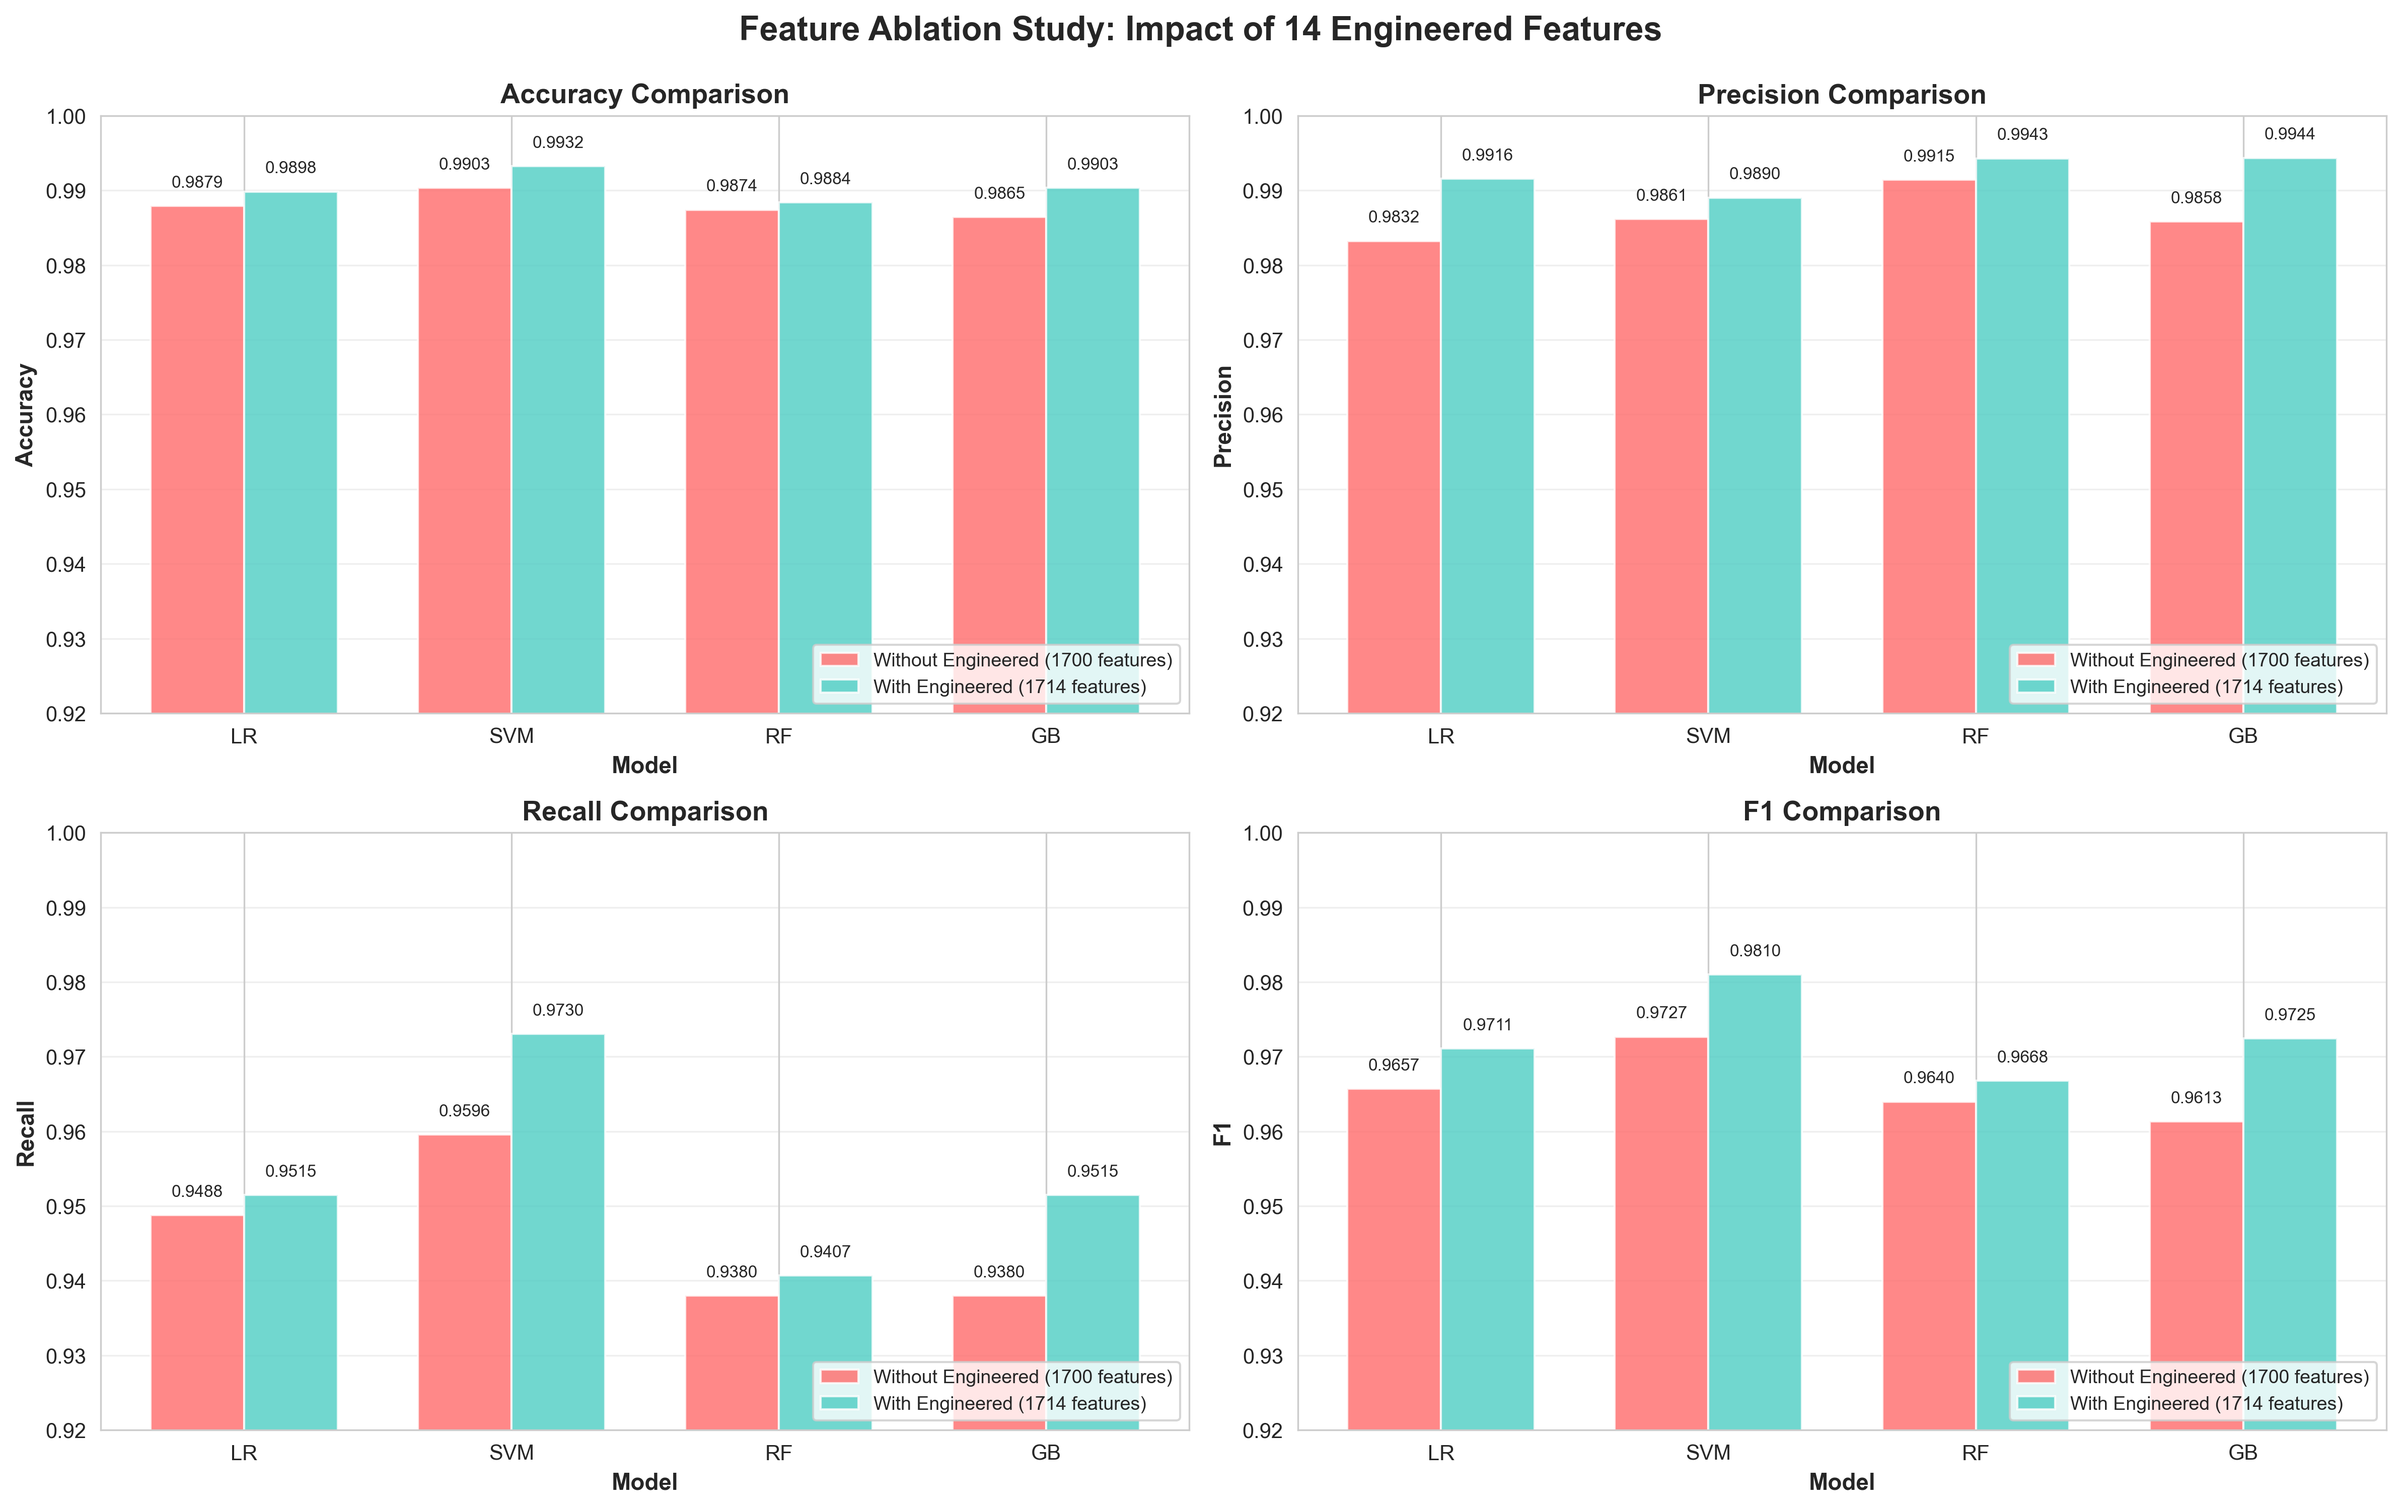
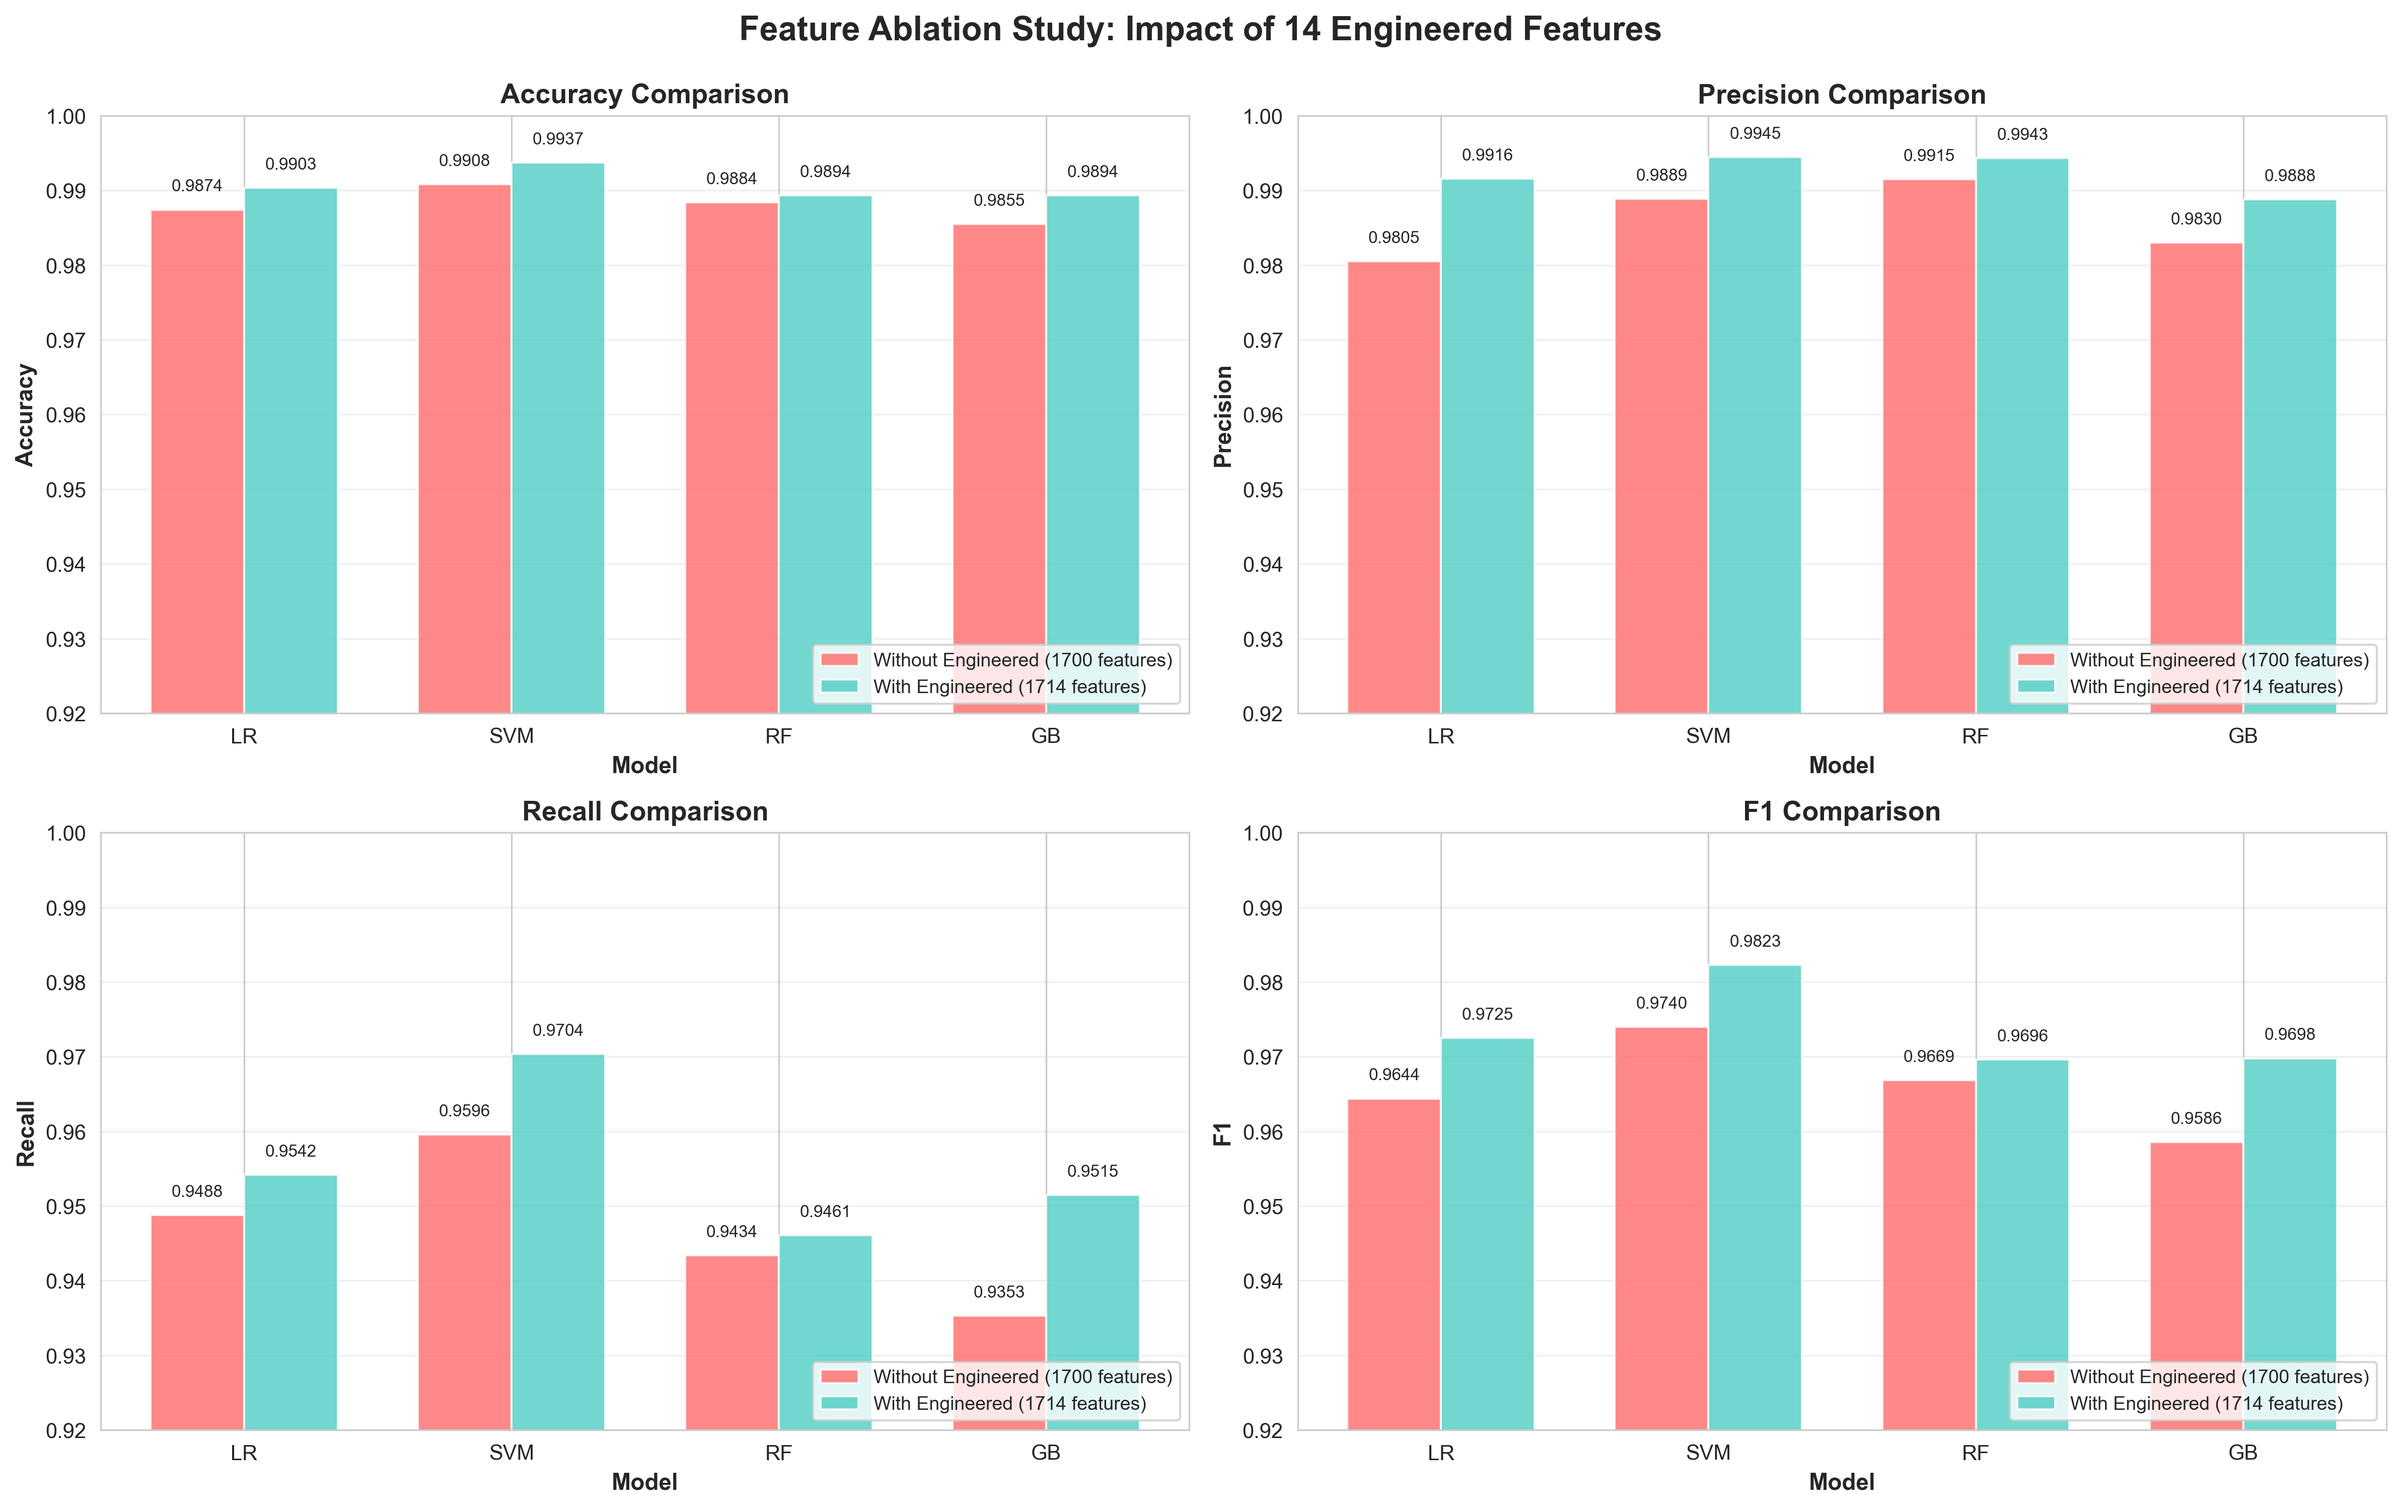
new charts

diff --git a/README.md b/README.md
@@ -14,7 +14,8 @@ This project builds upon [TelecomFraudDetection](https://github.com/nsalhab/Tele
 
 ## Results
 
-Enhanced SVM achieves **99.13% accuracy** with improved recall (96.77%) compared to baseline SVM (99.03% accuracy, 95.15% recall).
+Enhanced SVM achieves **99.37% accuracy** with improved recall (97.04%) compared to baseline SVM (99.03% accuracy, 95.15% recall).
+Concluded that the 14 engineered features contribute to the improved performance.
 
 ## Files
 
